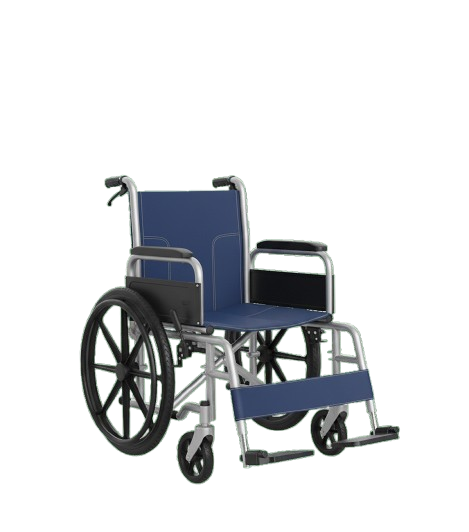
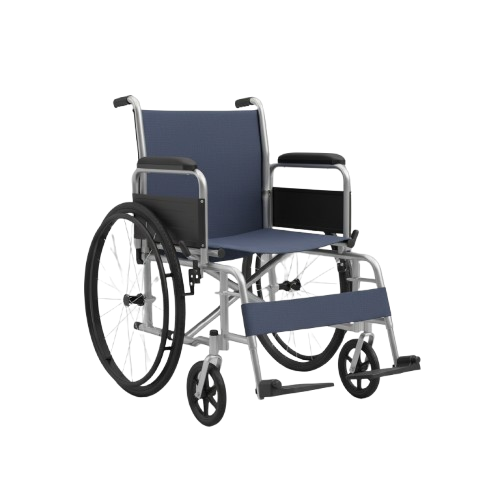
alteração de cores e posições dos elementos em produtos.html

Changed region(s): [[0.1493, 0.18, 0.8657, 0.93]]

diff --git a/index.html b/index.html
@@ -72,7 +72,7 @@
                     <p class="lead">Fornecimento seguro e ágil para hospitais e clínicas</p>
                     <p class="text text-md">Oferecemos soluções completas em equipamentos, materiais e insumos médicos para atender às necessidades do seu hospital.</p>
                     <div class="btn-group">
-                        <a href="#" class="btn btn-white">Ver Produtos</a>
+                        <a href="pages/produtos.html" class="btn btn-white">Ver Produtos</a>
                         <a href="#" class="btn btn-light-blue">Entrar</a>
                     </div>
                 </div>
@@ -177,7 +177,7 @@
                 <div class="banner-two-right">
                     <p class="lead text-white">Suprimentos certos, no momento certo, para salvar vidas.</p>
                     <div class="btn-group">
-                        <a href="#" class="btn btn-white">Ver Produtos</a>
+                        <a href="pages/produtos.html" class="btn btn-white">Ver Produtos</a>
                         <a href="#" class="btn btn-light-blue">Entrar</a>
                     </div>
                 </div>

diff --git a/assets/css/produtos.css b/assets/css/produtos.css
@@ -1,6 +1,8 @@
+@import url('https://fonts.googleapis.com/css2?family=Poppins:wght@200;300;400;500;600;700;800;900&display=swap');
+
 /* Layout base baseado na Home */
 body {
-    font-family: 'Arial', sans-serif;
+    font-family: 'Poppins', sans-serif;
     color: #333;
     background-color: #f9f9f9;
     margin: 0;
@@ -68,18 +70,19 @@ body {
 .product-card h2 {
     color: #004c97;
     margin: 10px 0;
+    font-size: medium;
 }
 
 .product-card p {
-    font-size: 1rem;
+    font-size: 1.2rem;
     color: #555;
 }
 
 .preco {
     font-size: 18px;
-    font-weight: bold;
-    color: #27ae60;
+    color: black;
     margin: 10px 0;
+    position: relative;
 }
 
 .layout {
@@ -96,7 +99,7 @@ body {
     height: fit-content;
     box-shadow: 0 4px 8px rgba(0,0,0,0.1);
     position: sticky;
-    top: 120px;
+    top: 170px;
 }
 
 .sidebar h3 {

diff --git a/README.md b/README.md
@@ -1,4 +1,4 @@
-# 🏥 HospiSupply
+# 🏥 Havi
 
 Este projeto é um **site institucional** para uma empresa fictícia que fornece produtos e serviços hospitalares.  
 Foi desenvolvido como parte da disciplina de **Front-End**.
